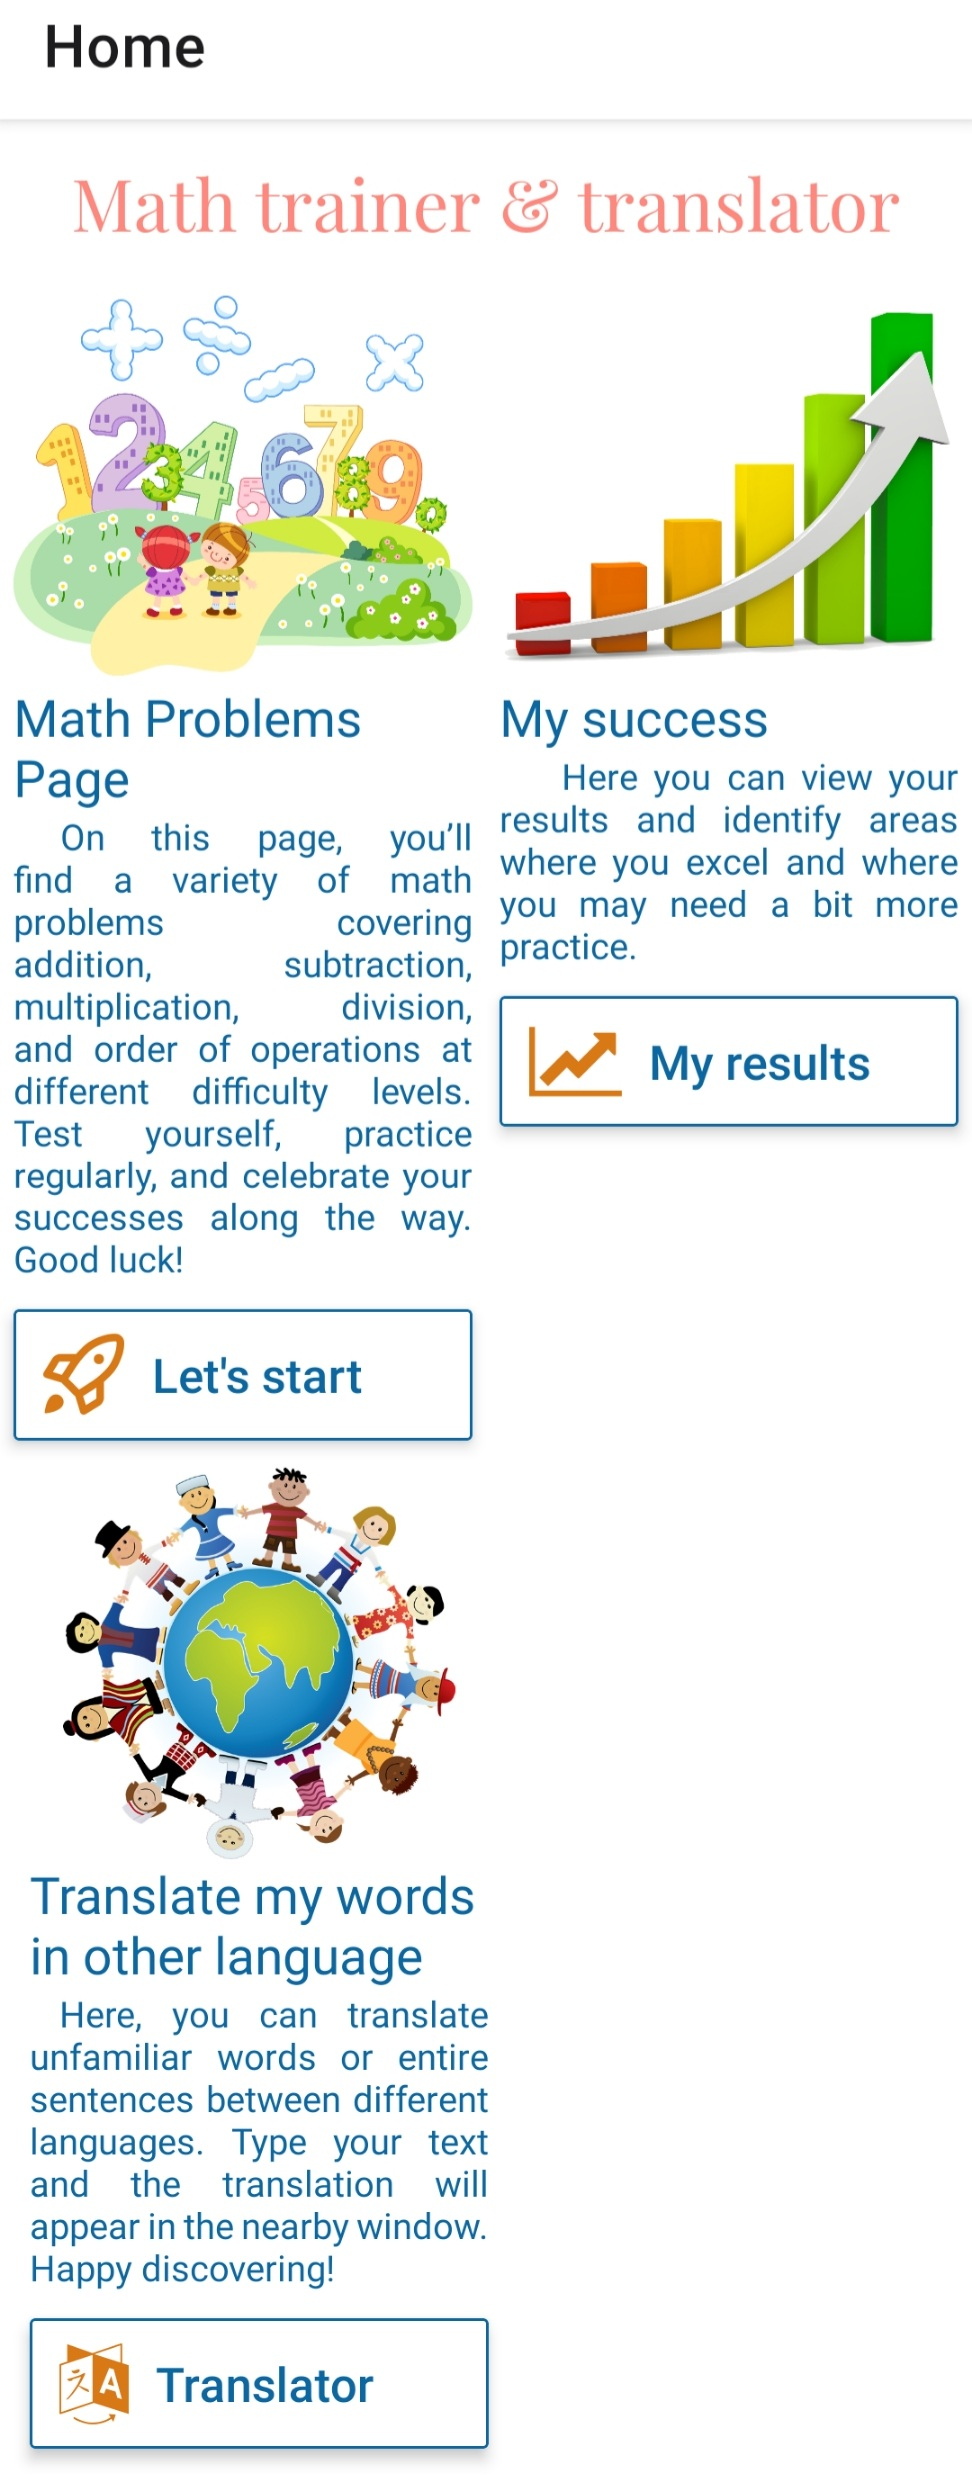
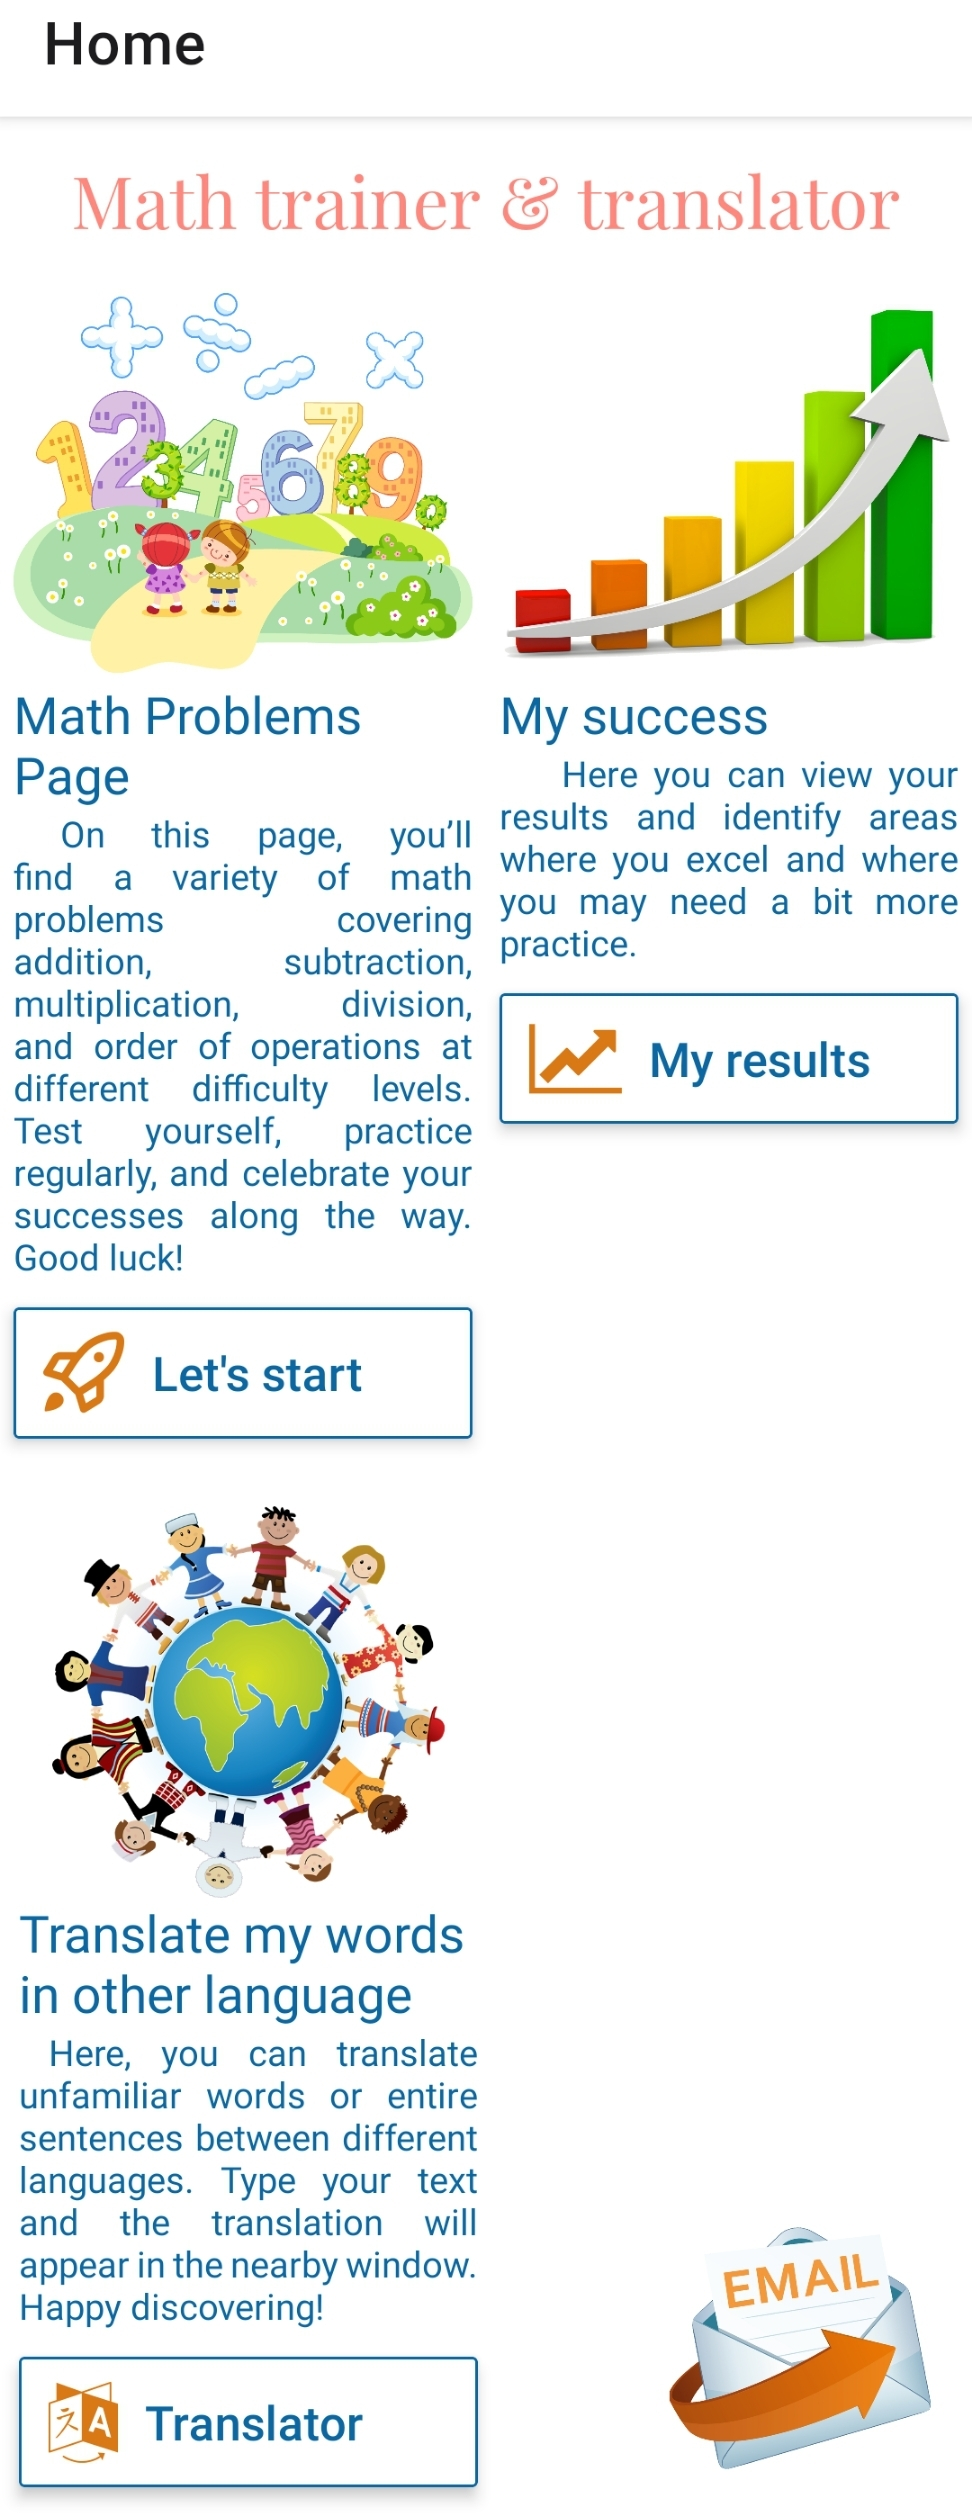
Added email function; ReadMe file updated.

diff --git a/Home.js b/Home.js
@@ -1,82 +1,53 @@
-
 import React from "react";
 import { Text, View, Image, ScrollView } from "react-native";
+import { Image as EmailImg } from "@rneui/themed";
 import EStyleSheet from "react-native-extended-stylesheet";
-import { Button, Icon } from '@rneui/themed';
+import { Button, Icon } from "@rneui/themed";
+import SendEmail from "./Email";
 
+export default function Home({ navigation }) {
+  const { emailAvailability } = SendEmail();
 
+  const onSendEmail = () => {
+    emailAvailability();
+  };
 
-export default function Home({navigation }) {
   return (
-    <View style={{flex:1,
-      backgroundColor: "#ffffff",
-    }}>
-    <ScrollView>
-
-      <View
-        style={{
-          flex: 1,
-          alignItems: "center",
-          justifyContent: "center",
-          marginTop:15,
-        }}
-      >
-        <Text style={styles.customText1}>Math trainer & translator</Text>
-      </View>
-     
-      <View
-        style={{
-          flex: 5,
-          flexDirection: "row",
-          justifyContent: "space-around",
-          marginTop:15
-        }}
-      >
-        <View>
-          <Image
-            style={styles.imageStyle}
-            source={require("./assets/images/mathpage.png")}
-          ></Image>
-          <Text style={styles.system}>Math Problems Page</Text>
-          <Text style={styles.blockText}>
-            {" "}
-            On this page, you’ll find a variety of math problems covering
-            addition, subtraction, multiplication, division, and order of
-            operations at different difficulty levels. Test yourself, practice
-            regularly, and celebrate your successes along the way. Good luck!
-          </Text>
-          <Button
-              type="outline"
-              buttonStyle={styles.buttonStyle}
-              titleStyle={{ color: "#0b67a2" }}
-              raised
-              containerStyle={{
-                width: 170,
-                marginVertical: 10,
-              }}
-              onPress={() => navigation.navigate('Math problems')} 
-              >
-            <Icon name="rocket" type='octicon' size={30} color="#d97915"  style={{ marginRight: 10 }} />
-            Let's start
-           
-            </Button>
-            <View>
-      
-    </View>
+    <View style={{ flex: 1, backgroundColor: "#ffffff" }}>
+      <ScrollView>
+        <View
+          style={{
+            flex: 1,
+            alignItems: "center",
+            justifyContent: "center",
+            marginTop: 15,
+          }}
+        >
+          <Text style={styles.customText1}>Math trainer & translator</Text>
         </View>
-        <View>
-          <Image
-            style={styles.imageStyle}
-            source={require("./assets/images/statistics.png")}
-          ></Image>
 
-          <Text style={styles.system}>My success</Text>
-          <Text style={styles.blockText}>
-            {"    "}
-            Here you can view your results and identify areas where you excel
-            and where you may need a bit more practice.
-          </Text>
-          <Button
+        <View
+          style={{
+            flex: 5,
+            flexDirection: "row",
+            justifyContent: "space-around",
+            marginTop: 15,
+          }}
+        >
+          <View>
+            <Image
+              style={styles.imageStyle}
+              source={require("./assets/images/mathpage.png")}
+            ></Image>
+            <Text style={styles.system}>Math Problems Page</Text>
+            <Text style={styles.blockText}>
+              {" "}
+              On this page, you’ll find a variety of math problems covering
+              addition, subtraction, multiplication, division, and order of
+              operations at different difficulty levels. Test yourself, practice
+              regularly, and celebrate your successes along the way. Good luck!
+            </Text>
+            <Button
               type="outline"
               buttonStyle={styles.buttonStyle}
               titleStyle={{ color: "#0b67a2" }}
@@ -85,31 +56,80 @@ export default function Home({navigation }) {
                 width: 170,
                 marginVertical: 10,
               }}
-              onPress={() => navigation.navigate('My results')}>
-            <Icon name="line-chart" type='font-awesome' size={30} color="#d97915"  style={{ marginRight: 10 }} />
-            My results
+              onPress={() => navigation.navigate("Math problems")}
+            >
+              <Icon
+                name="rocket"
+                type="octicon"
+                size={30}
+                color="#d97915"
+                style={{ marginRight: 10 }}
+              />
+              Let's start
             </Button>
+            <View></View>
+          </View>
+          <View>
+            <Image
+              style={styles.imageStyle}
+              source={require("./assets/images/statistics.png")}
+            ></Image>
+
+            <Text style={styles.system}>My success</Text>
+            <Text style={styles.blockText}>
+              {"    "}
+              Here you can view your results and identify areas where you excel
+              and where you may need a bit more practice.
+            </Text>
+            <Button
+              type="outline"
+              buttonStyle={styles.buttonStyle}
+              titleStyle={{ color: "#0b67a2" }}
+              raised
+              containerStyle={{
+                width: 170,
+                marginVertical: 10,
+              }}
+              onPress={() => navigation.navigate("My results")}
+            >
+              <Icon
+                name="line-chart"
+                type="font-awesome"
+                size={30}
+                color="#d97915"
+                style={{ marginRight: 10 }}
+              />
+              My results
+            </Button>
+          </View>
         </View>
-      </View>
 
-      <View
-        style={{
-          flex: 5,
-          marginHorizontal:11
-        }}
-      >
-        <Image
-          style={styles.imageStyle}
-          source={require("./assets/images/translator.png")}
-        ></Image>
-        <Text style={styles.system}>Translate my words in other language</Text>
-        <Text style={styles.blockText}>
-          {" "}
-          Here, you can translate unfamiliar words or entire sentences between
-          different languages. Type your text and the translation will appear in the nearby
-          window. Happy discovering!
-        </Text>
-        <Button
+        <View
+          style={{
+            flex: 5,
+            flexDirection: "row",
+            marginTop: 15,
+          }}
+        >
+          <View
+            style={{
+              marginHorizontal: 7,
+            }}
+          >
+            <Image
+              style={styles.imageStyle}
+              source={require("./assets/images/translator.png")}
+            ></Image>
+            <Text style={styles.system}>
+              Translate my words in other language
+            </Text>
+            <Text style={styles.blockText}>
+              {" "}
+              Here, you can translate unfamiliar words or entire sentences
+              between different languages. Type your text and the translation
+              will appear in the nearby window. Happy discovering!
+            </Text>
+            <Button
               type="outline"
               buttonStyle={styles.buttonStyle}
               titleStyle={{ color: "#0b67a2" }}
@@ -118,18 +138,37 @@ export default function Home({navigation }) {
                 width: 170,
                 marginVertical: 10,
               }}
-              onPress={() => navigation.navigate('Translator')} 
-              >
-            <Icon name="language" type='font-awesome' size={30} color="#d97915"  style={{ marginRight: 10 }} />
-            Translator
+              onPress={() => navigation.navigate("Translator")}
+            >
+              <Icon
+                name="language"
+                type="font-awesome"
+                size={30}
+                color="#d97915"
+                style={{ marginRight: 10 }}
+              />
+              Translator
             </Button>
-      </View>
+          </View>
+        </View>
       </ScrollView>
-     </View>
+      <View
+        style={{
+          position: 'absolute',
+          bottom: 10,
+          right: 12,
+        }}
+      >
+        <EmailImg
+          style={[styles.emailImageStyle, { transform: [{ rotate: "5deg" }] }]}
+          source={require("./assets/images/email.png")}
+          onPress={onSendEmail}
+        ></EmailImg>
+      </View>
+    </View>
   );
 }
 const styles = EStyleSheet.create({
-  
   customText1: {
     fontFamily: "$customPlayfairRegularFont",
     // Using a custom font
@@ -153,11 +192,17 @@ const styles = EStyleSheet.create({
     height: 145,
     resizeMode: "contain",
   },
-  buttonStyle:{
+  emailImageStyle: {
+    width: 100,
+    height: 100,
+    resizeMode: "contain",
+   
+  },
+  buttonStyle: {
     borderColor: "#0b67a2",
     borderWidth: 1,
-    flexDirection: 'row',           // Aligns icon and text in a row
-    alignItems: 'center',           // Vertically centers items in the row
-    justifyContent: 'flex-start'
+    flexDirection: "row", // Aligns icon and text in a row
+    alignItems: "center", // Vertically centers items in the row
+    justifyContent: "flex-start",
   },
 });

diff --git a/Email.js b/Email.js
@@ -1,0 +1,36 @@
+import * as MailComposer from "expo-mail-composer";
+import { useState } from "react";
+
+export default function SendEmail() {
+  const [isEmailAvailable, setIsEmailAvailable] = useState(false);
+
+  const emailAvailability = async () => {
+    const isAvailable = await MailComposer.isAvailableAsync();
+    setIsEmailAvailable(isAvailable);
+    if (!isAvailable) {
+        alert("No mail app is available on this device!");
+        return; 
+      }
+
+      const options = {
+        recipients: [],
+        subject: "Hello from Math trainer app",
+        body: "",
+        attachments: [],
+      };
+
+      try {
+        const result = await MailComposer.composeAsync(options);
+        if (result.status === "sent") {
+          console.log("Email sent successfully");
+        } else if (result.status === "cancelled")
+        {
+          console.log("Email was cancelled");
+        }
+      } catch (error) {
+        console.error("Failed to send email:", error);
+      }
+    
+  };
+ return { emailAvailability };
+} 

diff --git a/README.md b/README.md
@@ -1,5 +1,5 @@
 # Math trainer and translator
-This mobile application is designed specifically for children, providing an interactive and engaging way to practice math skills. It also features a built-in translator, enabling quick translations of words or sentences across various languages to support learning.
+This mobile application is designed specifically for children, providing an interactive and engaging way to practice math skills. It also features a built-in translator, enabling quick translations of words or sentences across various languages to support learning and email functionality, allowing users to share progress with parents or peers, fostering communication and collaboration.
 
 ## A Clear and User-Friendly Interface
 The interface is simple and intuitive, designed with calm colors to create a soothing environment. It’s easy enough for a child to navigate and ensures no distractions, helping users focus on completing tasks.
@@ -9,15 +9,18 @@ The interface is simple and intuitive, designed with calm colors to create a soo
 ## Structured Learning Approach
 Mathematical problems are divided into 23 topics. For each topic, you solve 10 examples. Once completed, the program checks your answers. If all answers are correct, a fun animation appears as a reward. If there are mistakes, the program highlights the errors and displays the correct answers.
 ## 
+<div>
 <img src="./assets/images/MathProblemListImg.jpg" alt="Image 1" width="250">
-
+&nbsp&nbsp
+<img src="./assets/images/CheckedImg.jpg" alt="Image 1" width="250">
+</div>
 ## Track Your Progress
 You can monitor your progress on the results page, which stores information about completed tasks. Additionally, each topic has its own detailed results displayed through interactive graphs for a comprehensive overview.
 ## 
 <div>
 <img src="./assets/images/StatisticsImg.jpg" alt="Image 2" style = "width: 250px;"/>  
 &nbsp&nbsp    
-<img src="./assets/images/ChartImg.jpg" alt="Image 3" style = "width: 250px; vertical-align: top;"/> 
+<img src="./assets/images/ChartImg.jpg" alt="Image 3" style = "width: 250px;"/> 
 </div>
 
 ## Built-In Dictionary
